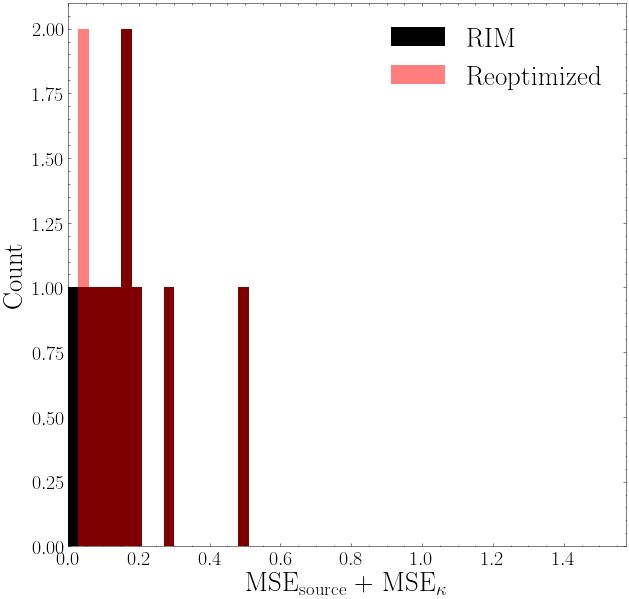
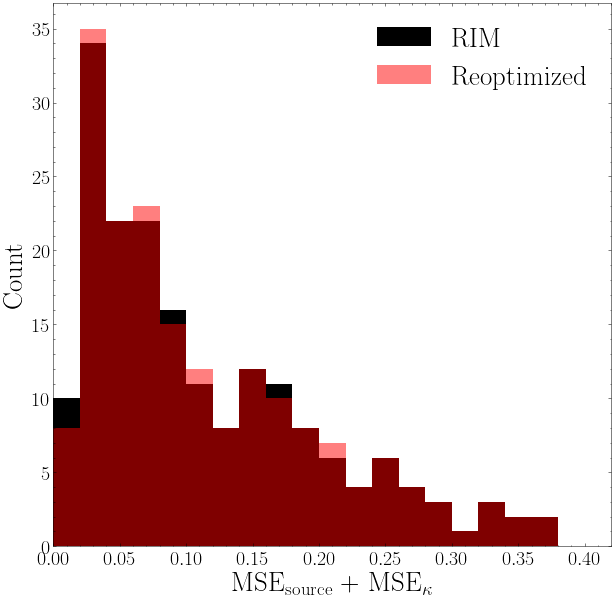
Changed sampling ball size back to user defined value. We set it to 0.1 to see what happens even though we now see ground truth can be very far in latent space
Former-commit-id: 93e9575ebea2cc87ada1ff3c6c63f7e8597adbc6
Former-commit-id: 931c941a8f3197708b88f62d5e59071a18419382 [formerly 79128d744b248c96f84b15b95ca772e845d1db0b]
Former-commit-id: 746e9e4c4035c618dc16245dd54e1cc5ed972528

diff --git a/scripts/rim_results_v4_and_optim_posterior.py b/scripts/rim_results_v4_and_optim_posterior.py
@@ -48,6 +48,7 @@ def distributed_strategy(args):
     with open(os.path.join(model, "unet_hparams.json")) as f:
         unet_params = json.load(f)
     unet_params["kernel_l2_amp"] = args.l2_amp
+    unet_params["source_link"] = "relu"
     unet = SharedUnetModelv4(**unet_params)
     ckpt = tf.train.Checkpoint(net=unet)
     checkpoint_manager = tf.train.CheckpointManager(ckpt, model, 1)
@@ -143,10 +144,10 @@ def distributed_strategy(args):
                 z_kappa, _ = kappa_vae.encoder(log_10(kappa_o))
 
                 # L1 distance with ground truth in latent space -- this is changed by an user defined value when using real data
-                z_source_std = tf.abs(z_source - z_source_gt)
-                z_kappa_std = tf.abs(z_kappa - z_kappa_gt)
-                # z_source_std = args.source_vae_ball_size
-                # z_kappa_std = args.kappa_vae_ball_size
+                # z_source_std = tf.abs(z_source - z_source_gt)
+                # z_kappa_std = tf.abs(z_kappa - z_kappa_gt)
+                z_source_std = args.source_vae_ball_size
+                z_kappa_std = args.kappa_vae_ball_size
 
                 # Sample latent code, then decode and forward
                 z_s = tf.random.normal(shape=[1, source_vae.latent_size], mean=z_source, stddev=z_source_std)
@@ -209,7 +210,7 @@ def distributed_strategy(args):
                     #     best = chi_sq[-1, 0]
                     #     break
                     if chi_sq[-1, 0] < best[-1, 0]:
-                        source_best = source_o
+                        source_best = tf.nn.relu(source_o)
                         kappa_best = 10**kappa_o
                         best = chi_sq
                         source_mse_best = tf.reduce_mean((source_best - source) ** 2)
@@ -226,7 +227,7 @@ def distributed_strategy(args):
                 sampled_kappa_mse = sampled_kappa_mse.stack()
 
                 # Latent code of optimized model predictions
-                z_source_opt, _ = source_vae.encoder(source_o)
+                z_source_opt, _ = source_vae.encoder(tf.nn.relu(source_o))
                 z_kappa_opt, _ = kappa_vae.encoder(log_10(kappa_o))
 
                 # Compute Power spectrum of converged predictions
@@ -250,7 +251,7 @@ def distributed_strategy(args):
                 g["source_prior"][batch] = sampled_source.numpy().astype(np.float32)
                 g["source_pred"][batch] = tf.transpose(source_pred, perm=(1, 0, 2, 3, 4)).numpy().astype(np.float32)
                 g["source_pred_reoptimized"][batch] = source_o.numpy().astype(np.float32)
-                g["kappa_prior"][batch] = sampled_kappa.numpy().astype(np.float32)
+                g["kappa_prior"][batch] = 10**sampled_kappa.numpy().astype(np.float32)
                 g["kappa_pred"][batch] = tf.transpose(kappa_pred, perm=(1, 0, 2, 3, 4)).numpy().astype(np.float32)
                 g["kappa_pred_reoptimized"][batch] = kappa_o.numpy().astype(np.float32)
                 g["chi_squared"][batch] = 2*tf.squeeze(chi_squared).numpy().astype(np.float32)
